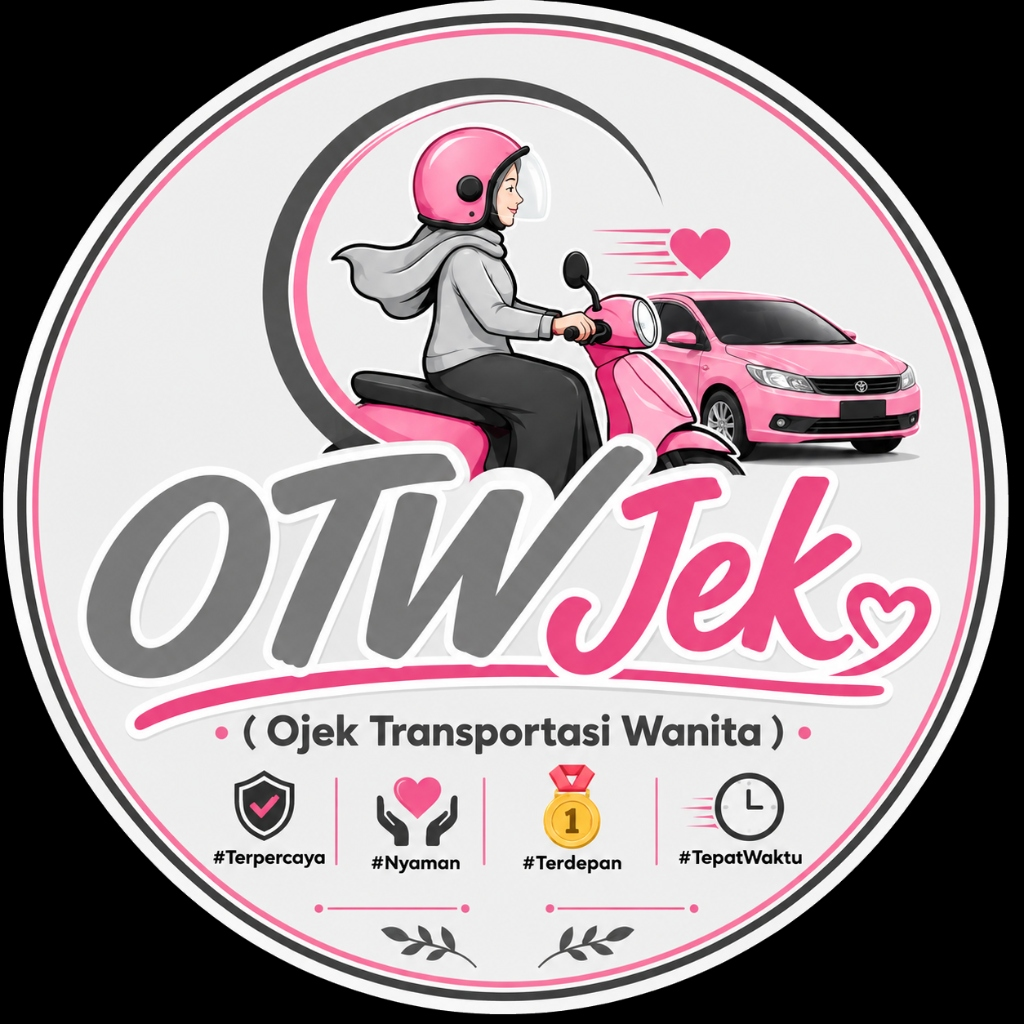
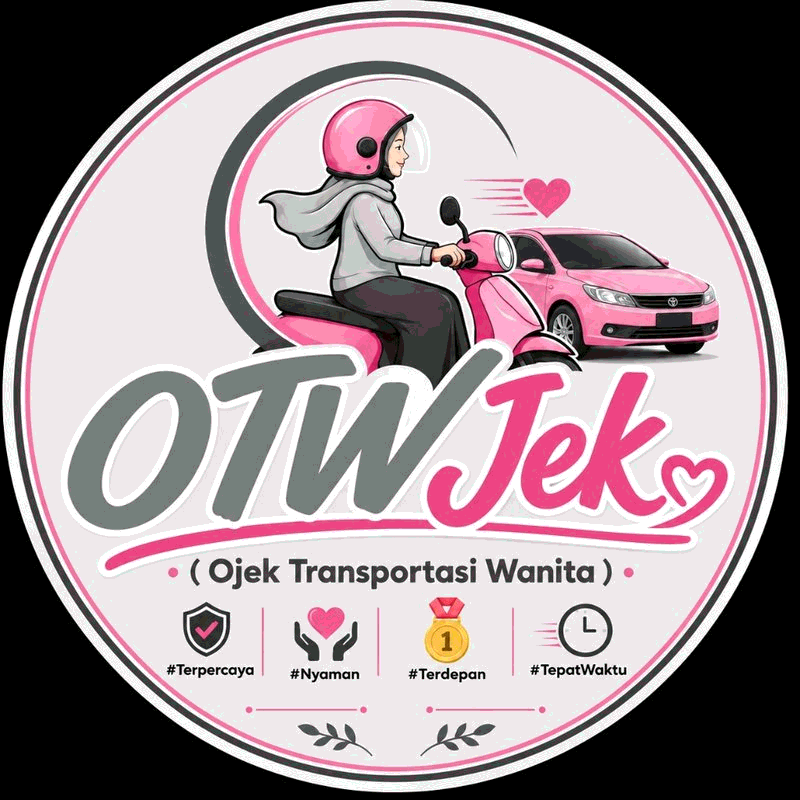
Fix WhatsApp link preview: use absolute URLs and optimize og-image to 110KB

Changed region(s): [[0.625, 0.3125, 0.6562, 0.3438], [0.5625, 0.3125, 0.5938, 0.3438]]

diff --git a/index.html b/index.html
@@ -10,26 +10,27 @@
     
     <!-- Open Graph / WhatsApp / Telegram / Facebook Thumbnail Sharing -->
     <meta property="og:type" content="website" />
+    <meta property="og:url" content="https://otwjek.vercel.app/" />
     <meta property="og:site_name" content="OTWJek" />
     <meta property="og:title" content="OTWJek" />
     <meta property="og:description" content="OTWJek (Ojek Transportasi Wanita) — Layanan transportasi & pengantaran khusus wanita. Aman, nyaman, terpercaya, dan tepat waktu." />
-    <meta property="og:image" content="/og-image.png" />
-    <meta property="og:image:secure_url" content="/og-image.png" />
-    <meta property="og:image:type" content="image/png" />
-    <meta property="og:image:width" content="1024" />
-    <meta property="og:image:height" content="1024" />
+    <meta property="og:image" content="https://otwjek.vercel.app/og-image.jpg" />
+    <meta property="og:image:secure_url" content="https://otwjek.vercel.app/og-image.jpg" />
+    <meta property="og:image:type" content="image/jpeg" />
+    <meta property="og:image:width" content="800" />
+    <meta property="og:image:height" content="800" />
     <meta property="og:image:alt" content="Logo OTWJek - Ojek Transportasi Wanita" />
 
     <!-- Twitter Card -->
     <meta name="twitter:card" content="summary_large_image" />
     <meta name="twitter:title" content="OTWJek" />
     <meta name="twitter:description" content="OTWJek (Ojek Transportasi Wanita) — Layanan transportasi & pengantaran khusus wanita. Aman, nyaman, terpercaya, dan tepat waktu." />
-    <meta name="twitter:image" content="/og-image.png" />
+    <meta name="twitter:image" content="https://otwjek.vercel.app/og-image.jpg" />
     <meta name="twitter:image:alt" content="Logo OTWJek" />
 
     <!-- Additional Link Preview Tags -->
-    <meta name="thumbnail" content="/og-image.png" />
-    <link rel="image_src" href="/og-image.png" />
+    <meta name="thumbnail" content="https://otwjek.vercel.app/og-image.jpg" />
+    <link rel="image_src" href="https://otwjek.vercel.app/og-image.jpg" />
 
     <!-- Google Fonts: Plus Jakarta Sans -->
     <link rel="preconnect" href="https://fonts.googleapis.com">
